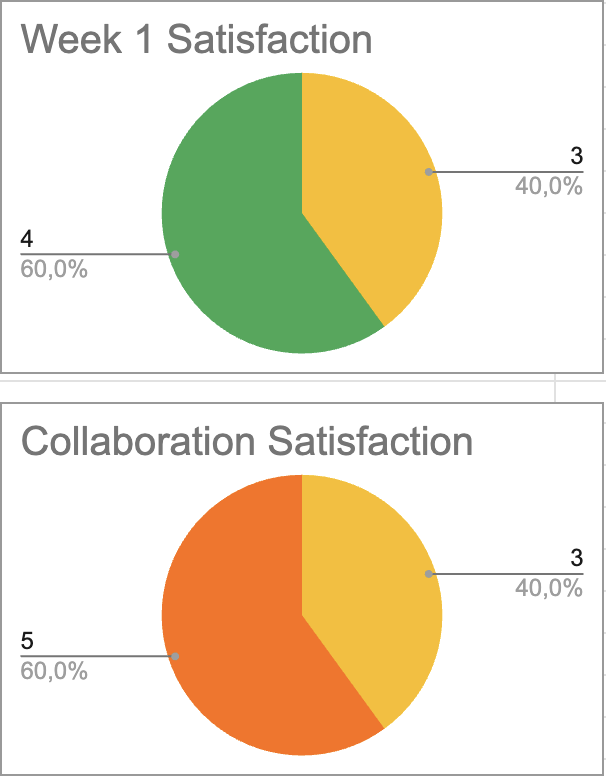
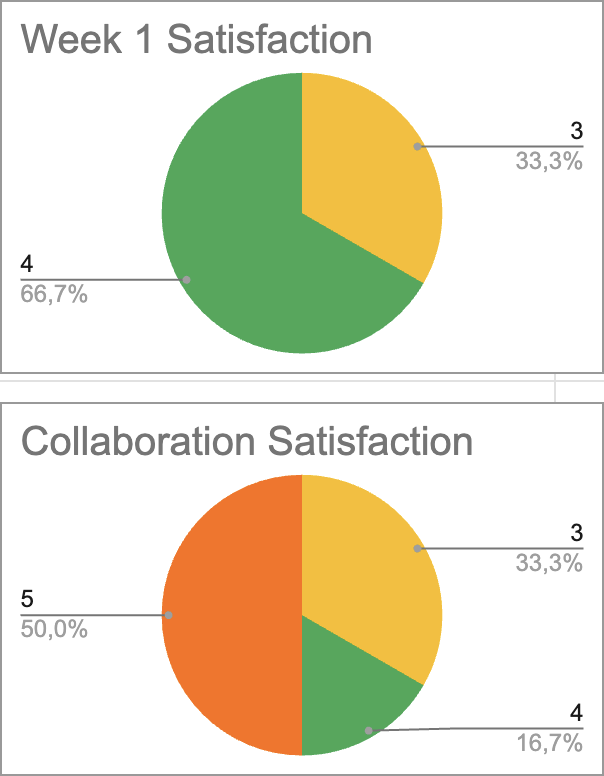
DOC: Added latest feedback in WR1

diff --git a/documents/management/weekly-report/weekly-report1.md b/documents/management/weekly-report/weekly-report1.md
@@ -42,9 +42,13 @@ How would you rate the team's collaboration this week? (1-5)
 
 This is what came out of this survey:
 
-![alt text](./images/kpis-week1.png)
+![alt text](images/kpis-week1.png)
 
 The team mentioned being happy with how the communication was flowing amongst the team, and no issues arose from the feedback the team members gave.
+
+Except for the fact that the team is not focused enough and too noisy at times.
+
+You can find [here](https://docs.google.com/spreadsheets/d/1EJIGbOufF86FP-Pb6Y5z0wuYymK0fEmoFKtg16JfIHg/edit?resourcekey=&gid=322050487#gid=322050487) more details about the satisfaction form.
 
 ## Project Progress
 
